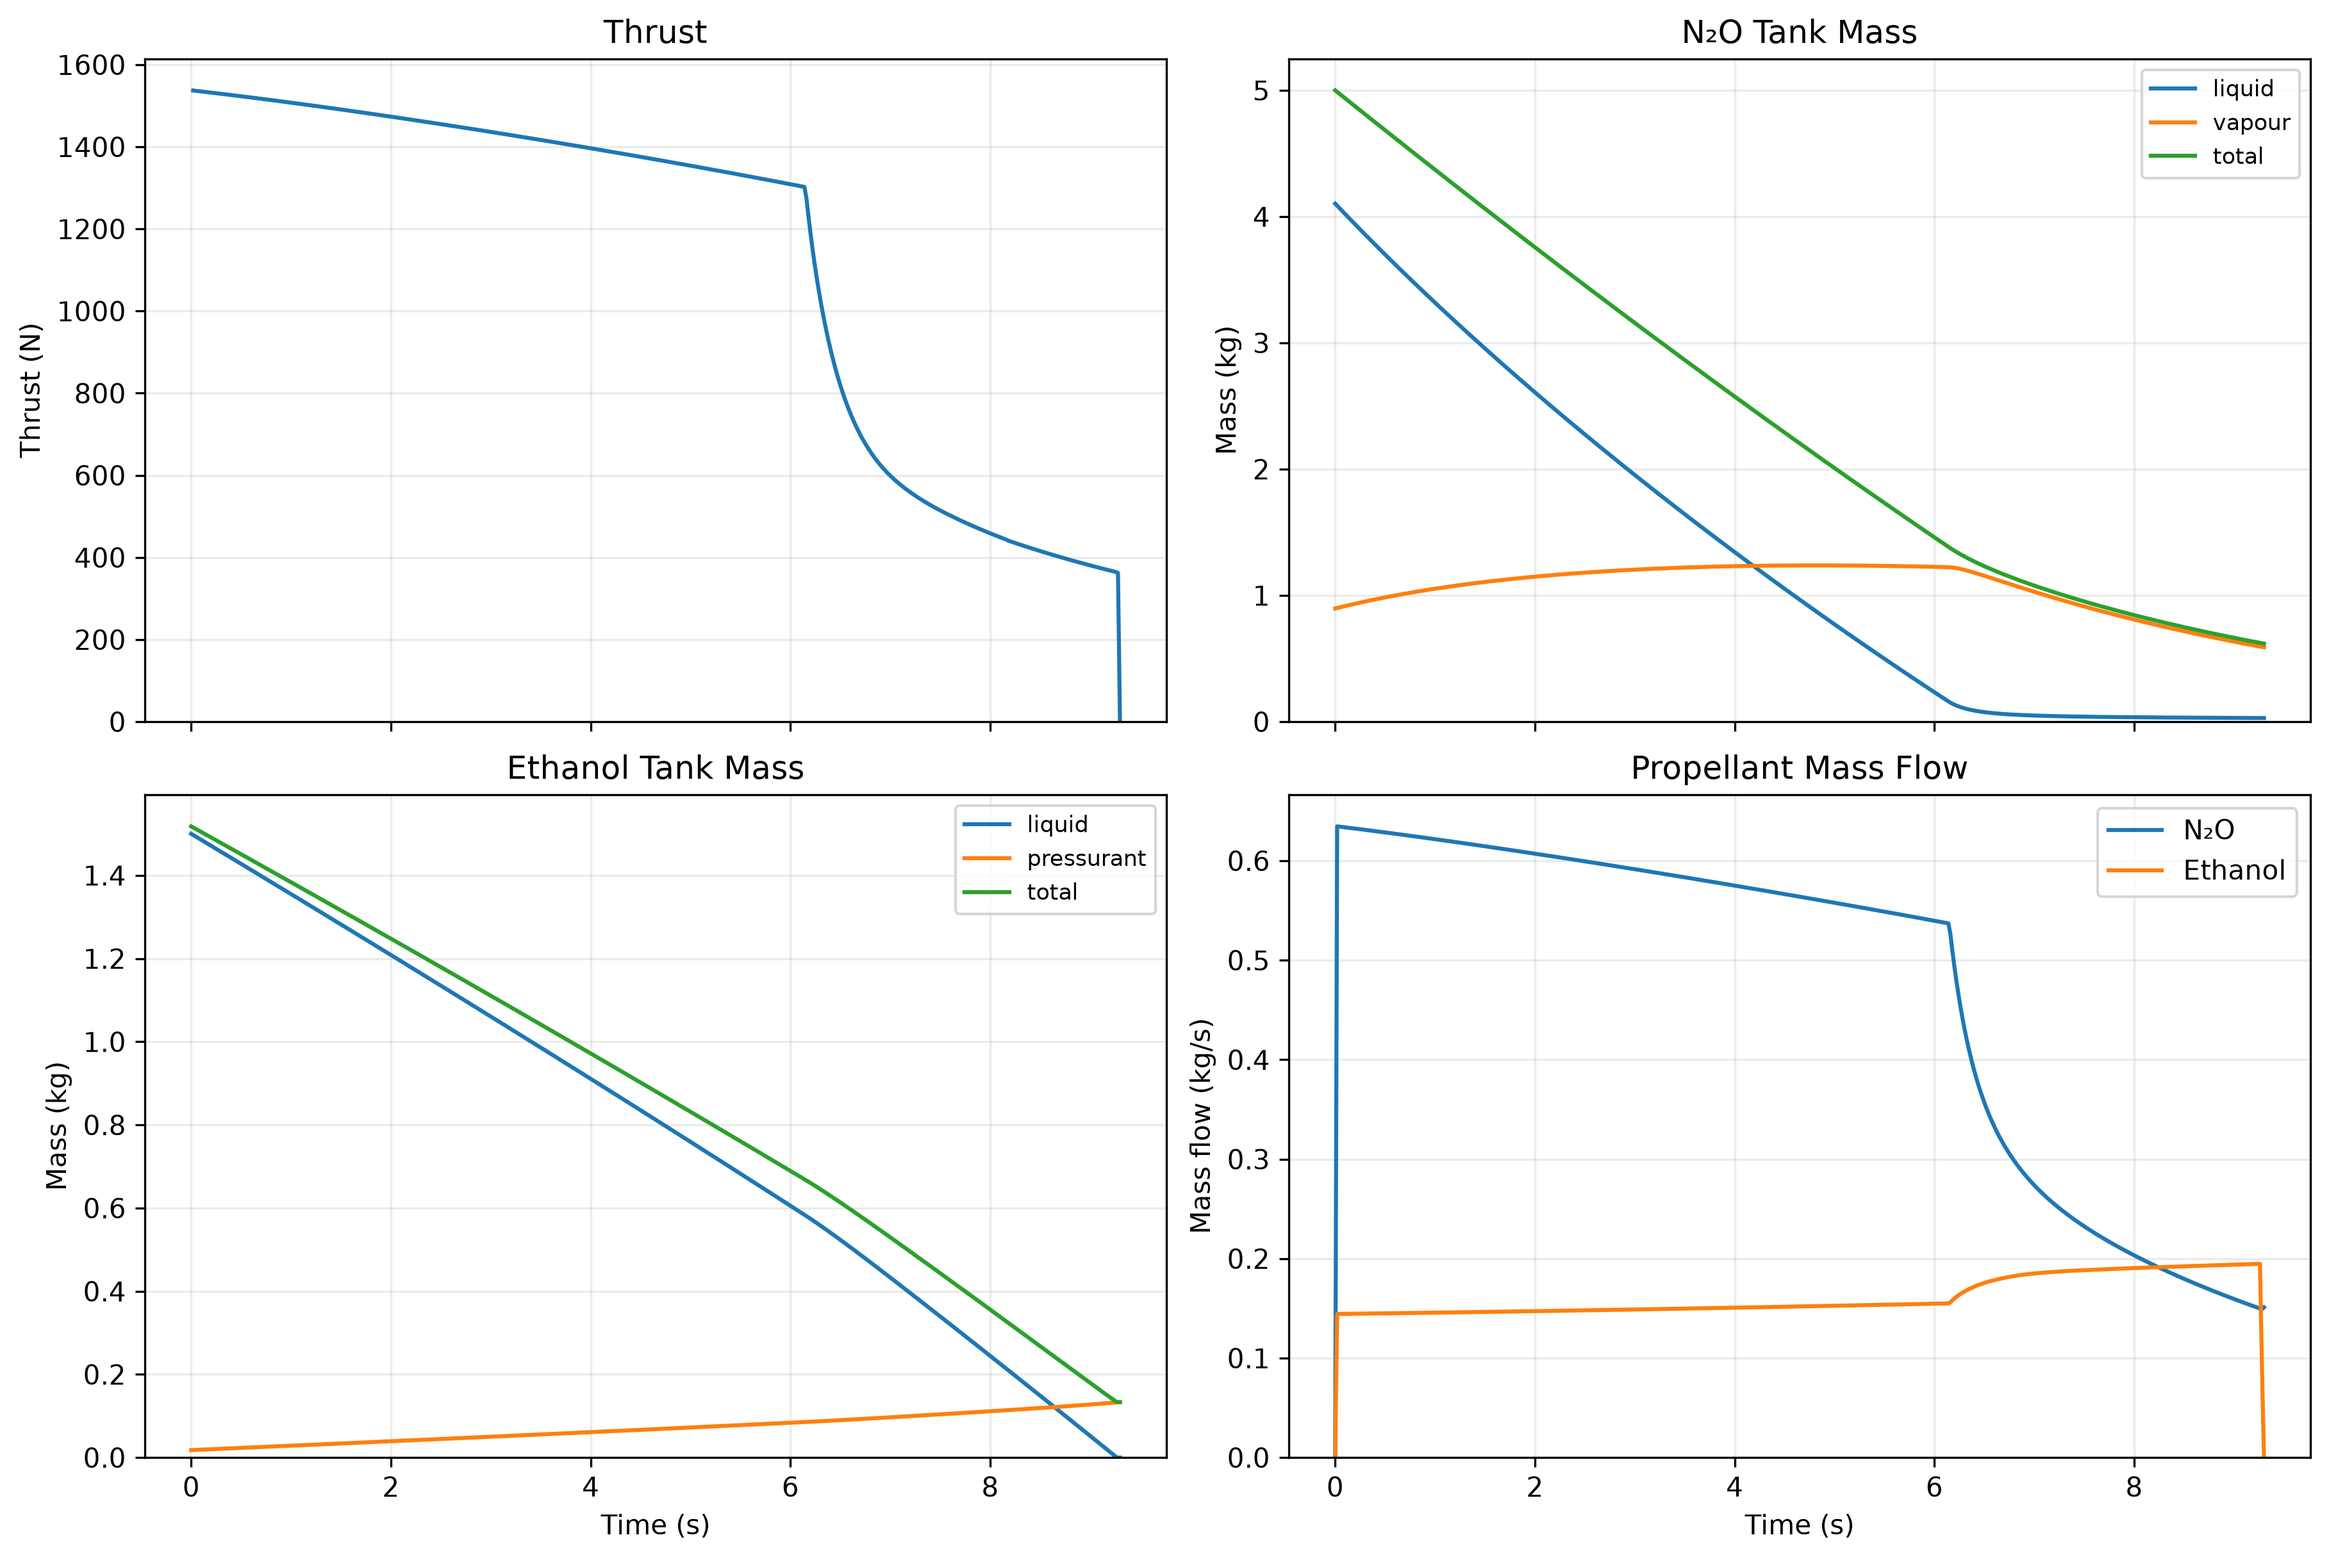
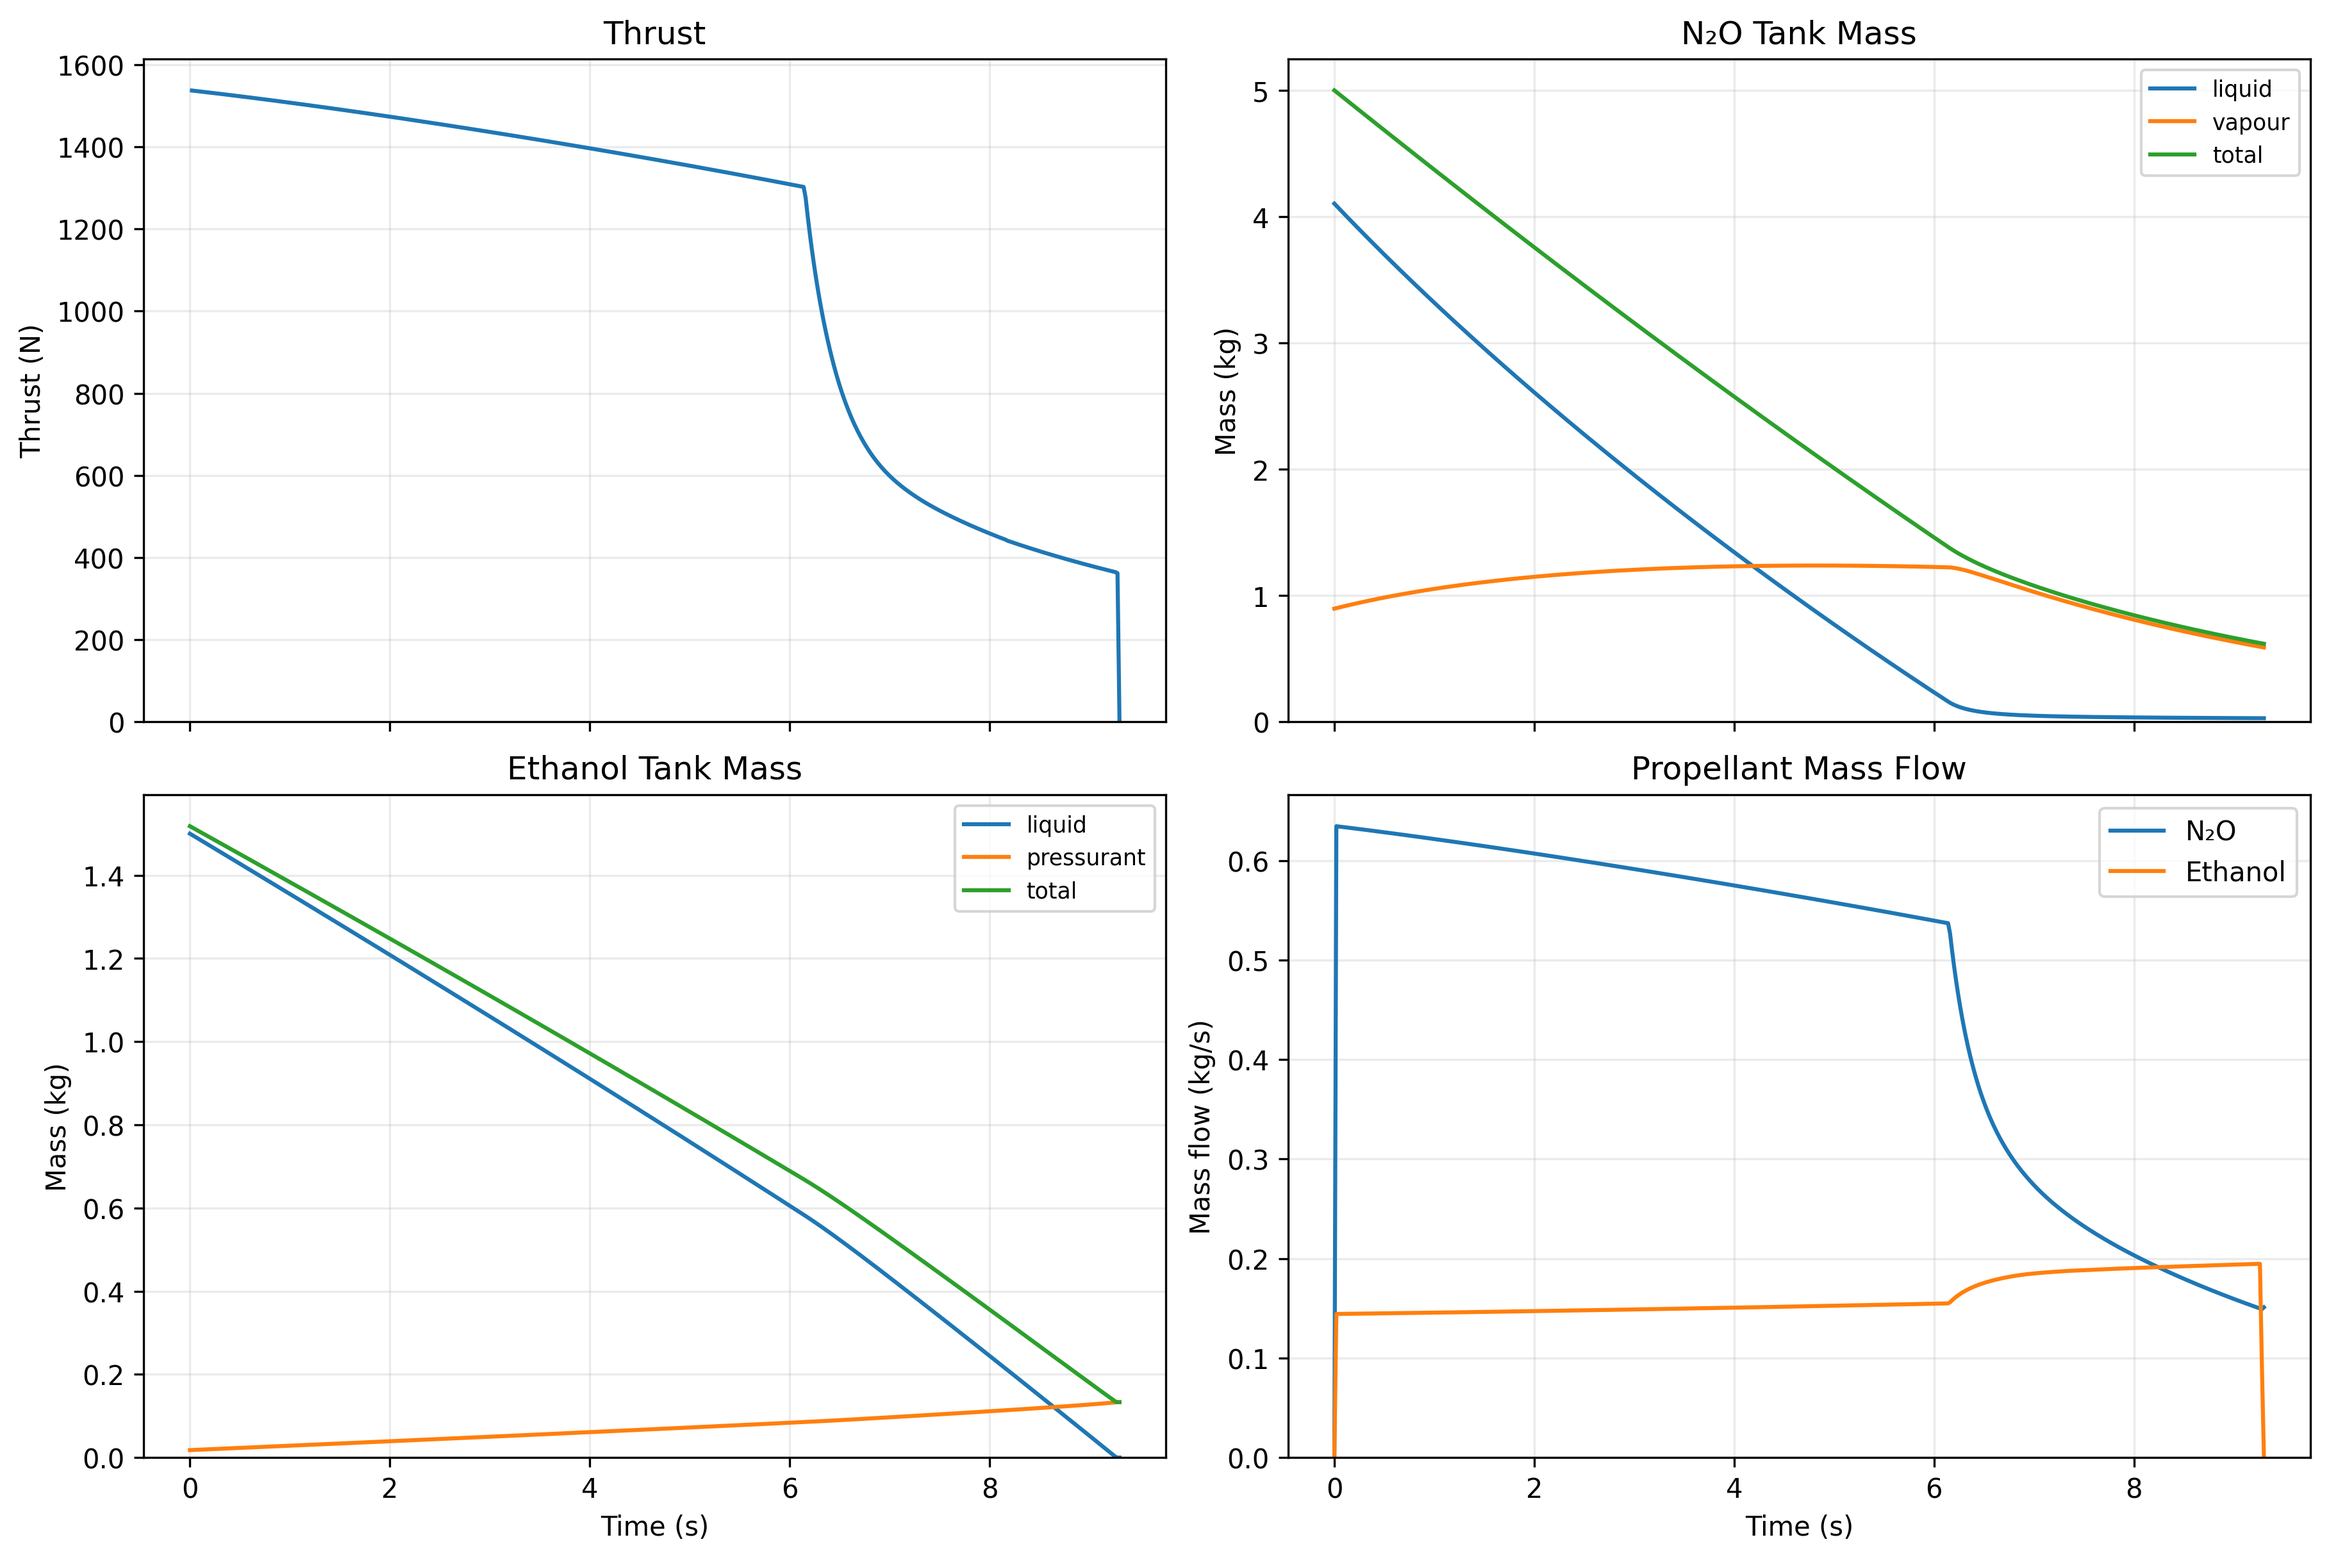
started N dimensional sweep

diff --git a/sweep.py b/sweep.py
@@ -6,6 +6,7 @@ from typing import Callable
 from pathlib import Path
 import matplotlib.pyplot as plt
 import math
+import itertools
 
 from cases import SimCase
 
@@ -35,6 +36,9 @@ def run_1D_sweep(
         case = modify_case(base_case, value)
 
         sim_record = biprop_simulate(case)
+
+        if sim_record is None:
+            raise ValueError("Simulation completed without recording.")
 
         summary = calculate_sim_summary(sim_record, liquidTankName="n2o_tank")
 
@@ -138,6 +142,29 @@ def plot_standard_1D_sweep_outputs(
         file_path=f"plots/{file_prefix}_vs_liquid_pc.png"
     )
 
+
+
+@dataclass
+class SweepParameter:
+    parameter_name: str
+    modify_case: Callable
+    values: list[float]
+
+
+
+def run_N_dimension_sweep(
+    base_case: SimCase,
+    sweep_parameters: list[SweepParameter]
+    )-> pd.DataFrame:
+
+
+    results = []
+
+    
+
+    raise NotImplementedError("N dimension sweep not yet implemented")
+
+
 def set_n2o_injector_area(
     case: SimCase,
     area_mm2: float
@@ -187,6 +214,15 @@ def set_throat_diameter(
     diameter_m = diameter_mm * 1e-3
     throat_area_m2 = math.pi * diameter_m**2 / 4
 
+    if case.engine_config is None:
+        raise ValueError("Engine config is not set in the case.")
+    
+    print(
+        f"Changing throat area from "
+        f"{case.engine_config.geometry.nozzle_throat_area_m2:.6f} m^2 "
+        f"to {throat_area_m2:.6f} m^2"
+    )
+
     geometry = replace(
         case.engine_config.geometry,
         nozzle_throat_area_m2=throat_area_m2,
@@ -208,6 +244,9 @@ def set_ethanol_pressure(
 ) -> SimCase:
 
     pressure_pa = pressure_bar * 1e5
+
+    if case.regulator_configs is None:
+        raise ValueError("Regulator configs are not set in the case.")
 
     regulator = replace(
         case.regulator_configs["ethanol_regulator"],
@@ -291,6 +330,9 @@ def set_expansion_ratio(
     case: SimCase,
     expansion_ratio: float,
 ) -> SimCase:
+
+    if case.engine_config is None:
+        raise ValueError("Engine config is not set in the case.")
 
     geometry = replace(
         case.engine_config.geometry,

diff --git a/main.py b/main.py
@@ -27,18 +27,18 @@ if __name__ == "__main__":
         liquidTankName="n2o_tank"
     )
 
-    plot_linkedin_summary(
-        sim_record,
-        oxidiserInjectorName="n2o_injector",
-        fuelInjectorName="ethanol_injector",
-        file_path="plots/squirtle_linkedin_summary.png",
-    )
-
-    # plot_sim_record(
-    #     simRecord=sim_record,
-    #     file_path=f"plots/{case.name}_test_results.png",
-    #     show=False
+    # plot_linkedin_summary(
+    #     sim_record,
+    #     oxidiserInjectorName="n2o_injector",
+    #     fuelInjectorName="ethanol_injector",
+    #     file_path="plots/squirtle_linkedin_summary.png",
     # )
+
+    plot_sim_record(
+        simRecord=sim_record,
+        file_path=f"plots/{case.name}_test_results.png",
+        show=False
+    )
 
     # log_results(
     #     file_path=f"logs/{case.name}_results.csv",

diff --git a/import itertools.py b/import itertools.py
@@ -1,0 +1,18 @@
+import itertools
+
+
+def simulate_n_loops(N, loop_range):
+
+    ranges = [
+        [1, 2, 3],
+        [5, 6, 7],
+        [1, 2]
+    ]
+
+    print(ranges)
+
+    for combination in itertools.product(*ranges):
+        print(combination)
+
+
+simulate_n_loops(N=3, loop_range=3)
